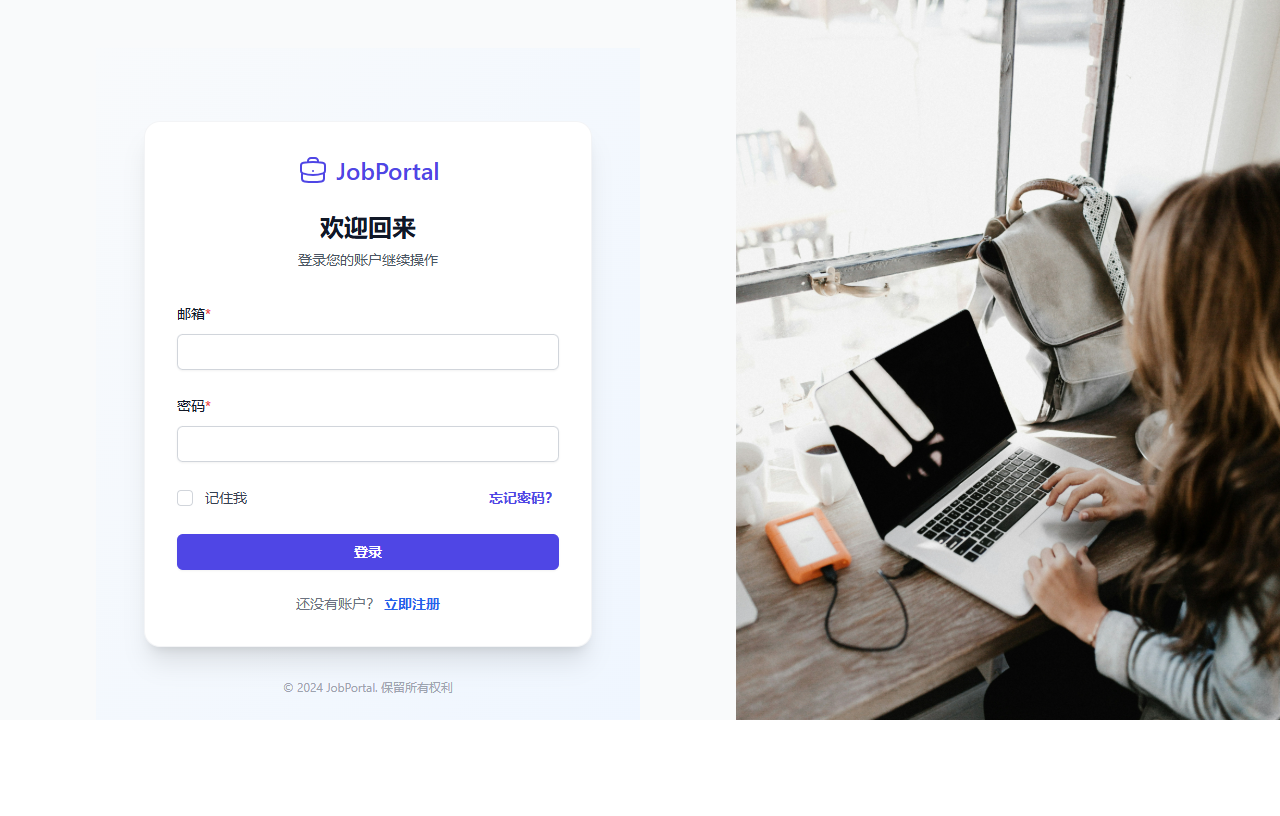
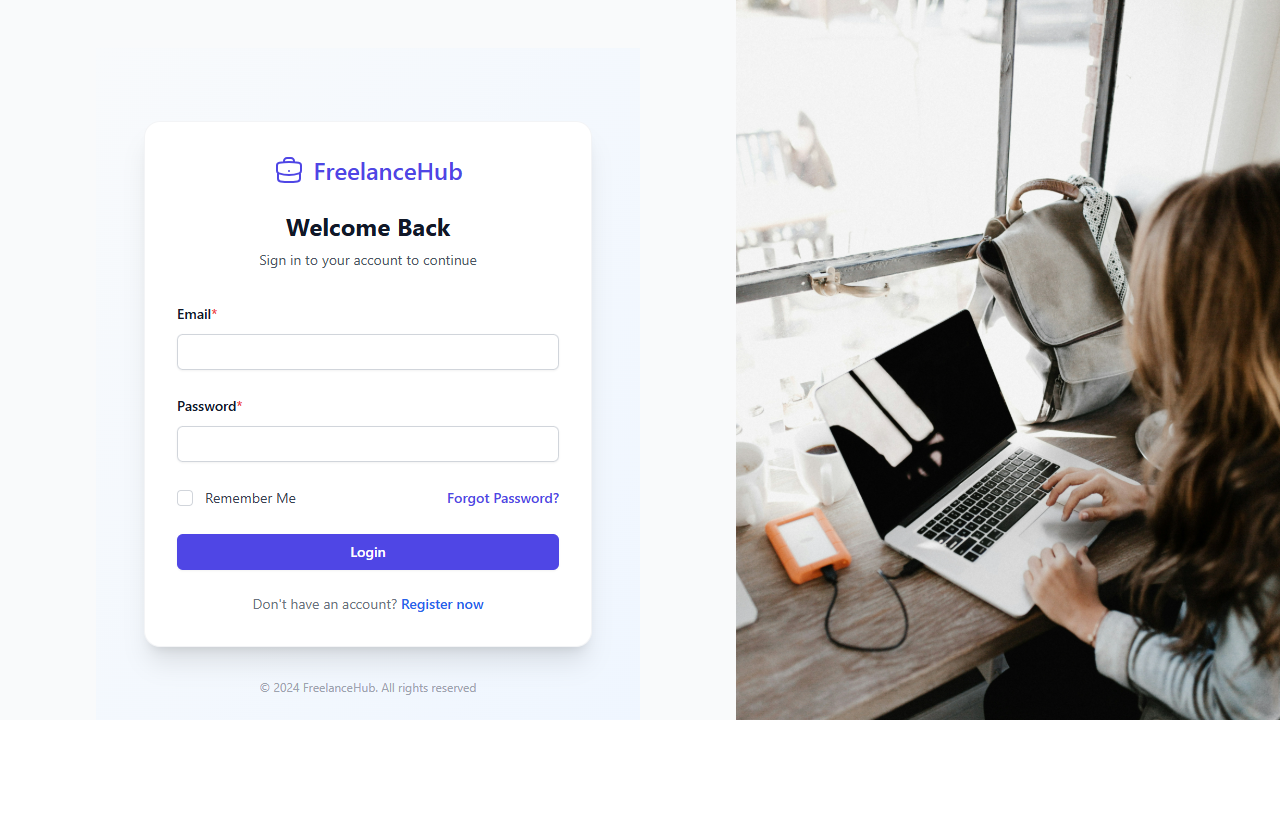
docs: update screenshots with FreelanceHub branding
- Add screenshot capture E2E test script
- Update login page screenshots (zh, en, ja)
- Update dashboard screenshots with new branding
- All screenshots now show FreelanceHub logo

diff --git a/e2e-tests/screenshot-capture.spec.ts b/e2e-tests/screenshot-capture.spec.ts
@@ -1,0 +1,160 @@
+import { test, Page } from '@playwright/test';
+import * as fs from 'fs';
+import * as path from 'path';
+
+const BASE_URL = process.env.BASE_URL || 'http://localhost:5137';
+const SCREENSHOT_DIR = 'docs/screenshots/readme';
+
+const TEST_USERS = {
+  freelancer: {
+    email: 'freelancer@test.com',
+    password: 'Test123456!',
+  },
+  hr: {
+    email: 'hr@test.com',
+    password: 'Test123456!',
+  },
+  admin: {
+    email: 'admin@test.com',
+    password: 'Test123456!',
+  },
+};
+
+async function ensureDir(dir: string) {
+  if (!fs.existsSync(dir)) {
+    fs.mkdirSync(dir, { recursive: true });
+  }
+}
+
+async function loginAsUser(page: Page, user: { email: string; password: string }) {
+  await page.goto(`${BASE_URL}/login`);
+  await page.fill('input[name="email"]', user.email);
+  await page.fill('input[name="password"]', user.password);
+  await page.click('button[type="submit"]');
+  await page.waitForURL(/\/(dashboard|home)/, { timeout: 15000 });
+  await page.waitForTimeout(3000);
+}
+
+async function switchLanguage(page: Page, language: 'zh' | 'en' | 'ja') {
+  const langLabels: Record<string, string> = {
+    'zh': '中文',
+    'en': 'English', 
+    'ja': '日本語'
+  };
+  
+  await page.click('[data-testid="language-switcher"]');
+  await page.waitForTimeout(500);
+  
+  const langOption = page.locator(`button:has-text("${langLabels[language]}")`);
+  await langOption.click();
+  await page.waitForTimeout(1500);
+}
+
+async function takeScreenshot(page: Page, filename: string) {
+  const filepath = path.join(SCREENSHOT_DIR, filename);
+  await page.screenshot({ path: filepath, fullPage: true });
+  console.log(`📸 Screenshot saved: ${filepath}`);
+}
+
+test.describe('全链路全角色全语言截图测试', () => {
+  
+  test.beforeEach(async ({ page }) => {
+    ensureDir(SCREENSHOT_DIR);
+  });
+
+  test('登录页面 - 中文', async ({ page }) => {
+    await page.goto(`${BASE_URL}/login`);
+    await page.waitForTimeout(2000);
+    await takeScreenshot(page, 'login-zh.png');
+  });
+
+  test('登录页面 - 英文', async ({ page }) => {
+    await page.goto(`${BASE_URL}/login`);
+    await switchLanguage(page, 'en');
+    await takeScreenshot(page, 'login-en.png');
+  });
+
+  test('登录页面 - 日文', async ({ page }) => {
+    await page.goto(`${BASE_URL}/login`);
+    await switchLanguage(page, 'ja');
+    await takeScreenshot(page, 'login-ja.png');
+  });
+
+  test('Freelancer工作台 - 中文', async ({ page }) => {
+    await loginAsUser(page, TEST_USERS.freelancer);
+    await takeScreenshot(page, 'freelancer-dashboard-zh.png');
+  });
+
+  test('Freelancer工作台 - 英文', async ({ page }) => {
+    await loginAsUser(page, TEST_USERS.freelancer);
+    await switchLanguage(page, 'en');
+    await takeScreenshot(page, 'freelancer-dashboard-en.png');
+  });
+
+  test('Freelancer工作台 - 日文', async ({ page }) => {
+    await loginAsUser(page, TEST_USERS.freelancer);
+    await switchLanguage(page, 'ja');
+    await takeScreenshot(page, 'freelancer-dashboard-ja.png');
+  });
+
+  test('HR工作台 - 中文', async ({ page }) => {
+    await loginAsUser(page, TEST_USERS.hr);
+    await takeScreenshot(page, 'hr-dashboard-zh.png');
+  });
+
+  test('HR工作台 - 英文', async ({ page }) => {
+    await loginAsUser(page, TEST_USERS.hr);
+    await switchLanguage(page, 'en');
+    await takeScreenshot(page, 'hr-dashboard-en.png');
+  });
+
+  test('HR工作台 - 日文', async ({ page }) => {
+    await loginAsUser(page, TEST_USERS.hr);
+    await switchLanguage(page, 'ja');
+    await takeScreenshot(page, 'hr-dashboard-ja.png');
+  });
+
+  test('Admin工作台 - 中文', async ({ page }) => {
+    await loginAsUser(page, TEST_USERS.admin);
+    await takeScreenshot(page, 'admin-dashboard-zh.png');
+  });
+
+  test('Admin工作台 - 英文', async ({ page }) => {
+    await loginAsUser(page, TEST_USERS.admin);
+    await switchLanguage(page, 'en');
+    await takeScreenshot(page, 'admin-dashboard-en.png');
+  });
+
+  test('Admin工作台 - 日文', async ({ page }) => {
+    await loginAsUser(page, TEST_USERS.admin);
+    await switchLanguage(page, 'ja');
+    await takeScreenshot(page, 'admin-dashboard-ja.png');
+  });
+
+  test('职位列表 - 中文', async ({ page }) => {
+    await loginAsUser(page, TEST_USERS.freelancer);
+    await page.waitForTimeout(1000);
+    
+    const jobsLink = page.locator('a[href*="jobs"], a:has-text("职位"), a:has-text("项目")').first();
+    if (await jobsLink.isVisible()) {
+      await jobsLink.click();
+      await page.waitForTimeout(2000);
+    }
+    
+    await takeScreenshot(page, 'jobs-list-zh.png');
+  });
+
+  test('职位列表 - 英文', async ({ page }) => {
+    await loginAsUser(page, TEST_USERS.freelancer);
+    await switchLanguage(page, 'en');
+    await page.waitForTimeout(1000);
+    
+    const jobsLink = page.locator('a[href*="jobs"], a:has-text("Jobs"), a:has-text("Projects")').first();
+    if (await jobsLink.isVisible()) {
+      await jobsLink.click();
+      await page.waitForTimeout(2000);
+    }
+    
+    await takeScreenshot(page, 'jobs-list-en.png');
+  });
+});
